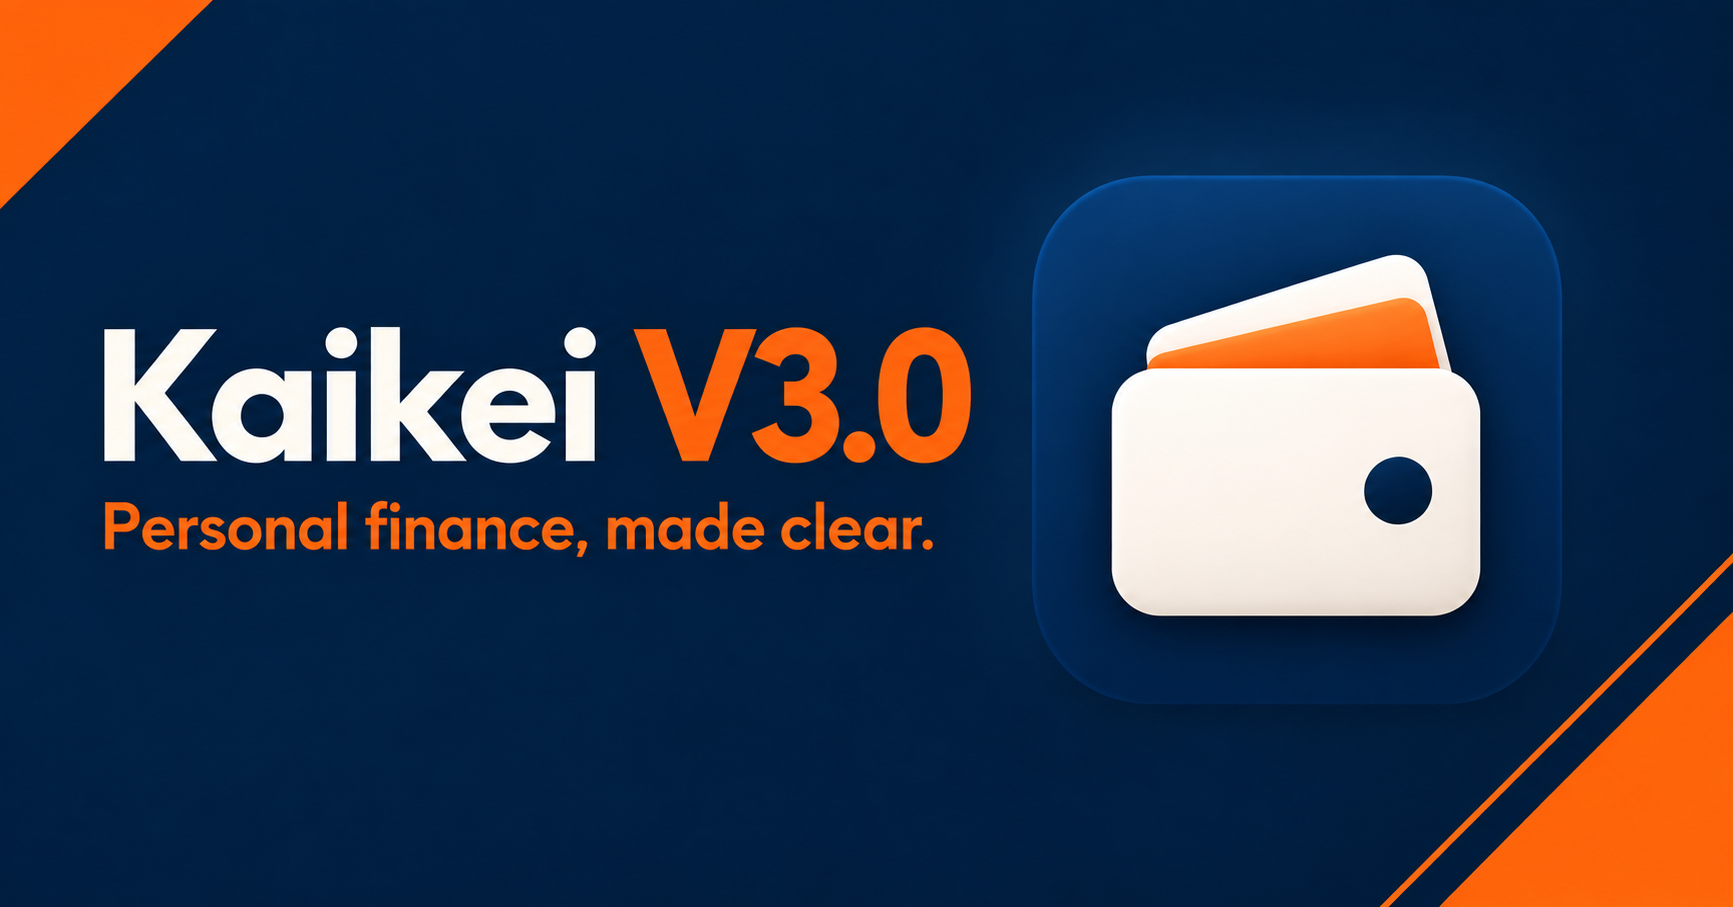
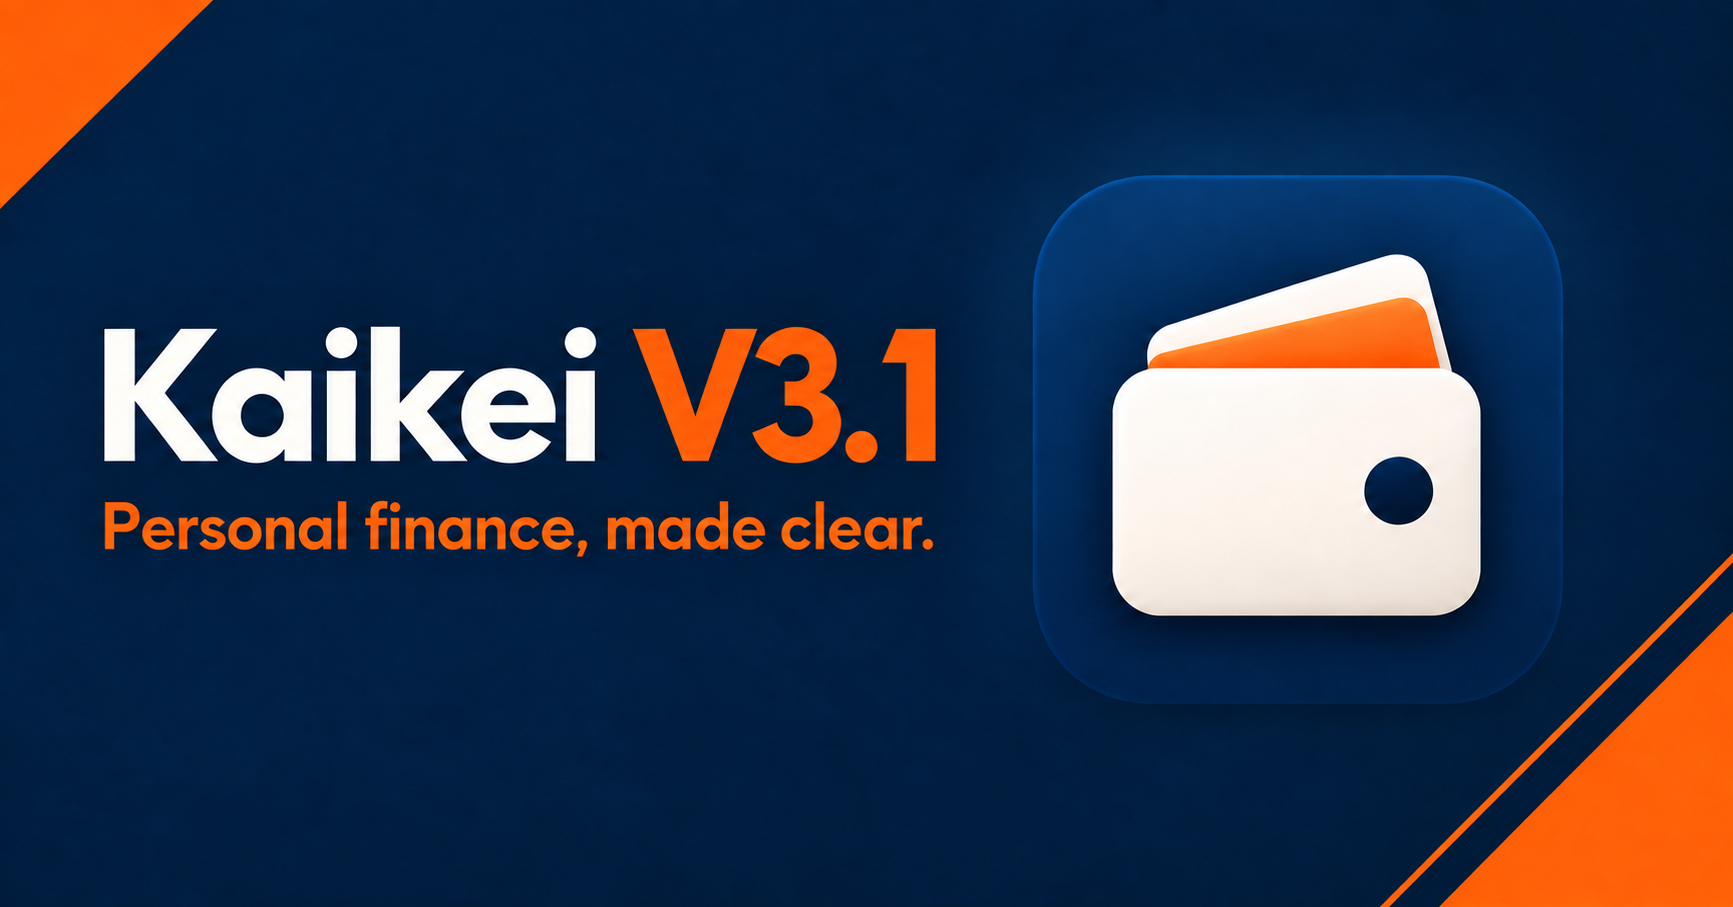
Update Kaikei Demo to V3.1

Changed region(s): [[0.4674, 0.3705, 0.5609, 0.5248], [0.4986, 0.5865, 0.5297, 0.6174], [0.4051, 0.5557, 0.4362, 0.5865]]

diff --git a/app/layout.tsx b/app/layout.tsx
@@ -5,10 +5,10 @@ import Providers from './providers';
 
 export const metadata: Metadata = {
   metadataBase: new URL('https://kaikei-demo-2026.ktanzyl.chatgpt.site'),
-  title: 'Kaikei Demo V3.0 — Personal finance, made clear',
+  title: 'Kaikei Demo V3.1 — Personal finance, made clear',
   description:
-    'Explore the redesigned Kaikei V3.0 experience with synthetic finances stored only in your browser.',
-  applicationName: 'Kaikei Demo V3.0',
+    'Explore the redesigned Kaikei V3.1 experience with synthetic finances stored only in your browser.',
+  applicationName: 'Kaikei Demo V3.1',
   icons: {
     icon: [
       { url: '/favicon.ico?v=20', sizes: 'any', type: 'image/x-icon' },
@@ -43,7 +43,7 @@ export const metadata: Metadata = {
     ],
   },
   openGraph: {
-    title: 'Kaikei Demo V3.0 — Personal finance, made clear',
+    title: 'Kaikei Demo V3.1 — Personal finance, made clear',
     description:
       'Try income, expense, and budget tracking with synthetic sample data.',
     type: 'website',
@@ -58,7 +58,7 @@ export const metadata: Metadata = {
   },
   twitter: {
     card: 'summary_large_image',
-    title: 'Kaikei Demo V3.0 — Personal finance, made clear',
+    title: 'Kaikei Demo V3.1 — Personal finance, made clear',
     description:
       'Try income, expense, and budget tracking with synthetic sample data.',
     images: ['/og.png'],

diff --git a/app/page.tsx b/app/page.tsx
@@ -569,7 +569,7 @@ export default function Home() {
           <div>
             <div className="brand-title">
               <strong>Kaikei</strong>
-              <span className="version-badge">V3.0</span>
+              <span className="version-badge">V3.1</span>
             </div>
             <span>Personal finance</span>
           </div>
@@ -619,7 +619,7 @@ export default function Home() {
               height={36}
             />
             <strong>Kaikei</strong>
-            <span className="version-badge">V3.0</span>
+            <span className="version-badge">V3.1</span>
           </button>
           <div className="topbar-copy">
             <Text type="secondary">Your money, in one calm place</Text>

diff --git a/README.md b/README.md
@@ -1,18 +1,18 @@
 <p align="center">
-  <img src="docs/kaikei-demo-v3-banner.png" alt="Kaikei V3.0 — Personal finance, made clear" width="100%" />
+  <img src="docs/kaikei-demo-v3-banner.png" alt="Kaikei V3.1 — Personal finance, made clear" width="100%" />
 </p>
 
-# Kaikei Demo V3.0
+# Kaikei Demo V3.1
 
-Kaikei Demo is a safe, standalone showcase of the redesigned Kaikei personal-expense tracker. It lets people explore the V3.0 dashboard, transaction, and budget workflows using fictional 2026 finances—without connecting to the private production ledger or Google Sheet.
+Kaikei Demo is a safe, standalone showcase of the redesigned Kaikei personal-expense tracker. It lets people explore the V3.1 dashboard, transaction, and budget workflows using fictional 2026 finances—without connecting to the private production ledger or Google Sheet.
 
 [Open the hosted demo](https://kaikei-demo-2026.ktanzyl.chatgpt.site)
 
 > **Demo safety:** every included record is synthetic. Changes are saved only in the current browser using `localStorage` and never sync to the production app, Google Sheets, or another visitor.
 
-## V3.0 redesign
+## V3.1 release
 
-This release brings the public demo in line with the current Kaikei experience:
+V3.1 keeps the public demo aligned with the current Kaikei experience while preserving its isolated, browser-only data model:
 
 - A dark navy desktop sidebar and compact mobile navigation.
 - The new navy wallet app icon across the interface, favicons, PWA assets, and iOS home-screen sizes.
@@ -20,7 +20,8 @@ This release brings the public demo in line with the current Kaikei experience:
 - Uniform card and control corners, clearer number hierarchy, and roomier responsive layouts.
 - Light and dark themes saved on the current device.
 - Year and selected-month money-flow views.
-- Updated V3.0 metadata and installable-app manifest.
+- Updated V3.1 interface labels, metadata, installable-app manifest, and repository banner.
+- Immediate rendering from bundled synthetic data with transaction and budget editors loaded only when needed.
 
 ## What you can try
 
@@ -68,7 +69,7 @@ The two apps have separate source histories, deployments, and storage behavior. 
 
 ## Design
 
-Kaikei V3.0 uses Ant Design as its interface foundation, extended with a custom orange-and-navy visual system:
+Kaikei V3.1 uses Ant Design as its interface foundation, extended with a custom orange-and-navy visual system:
 
 - Navy `#102542` for primary surfaces, typography, and income indicators.
 - Orange `#F26A21` for actions, expenses, and emphasis.
